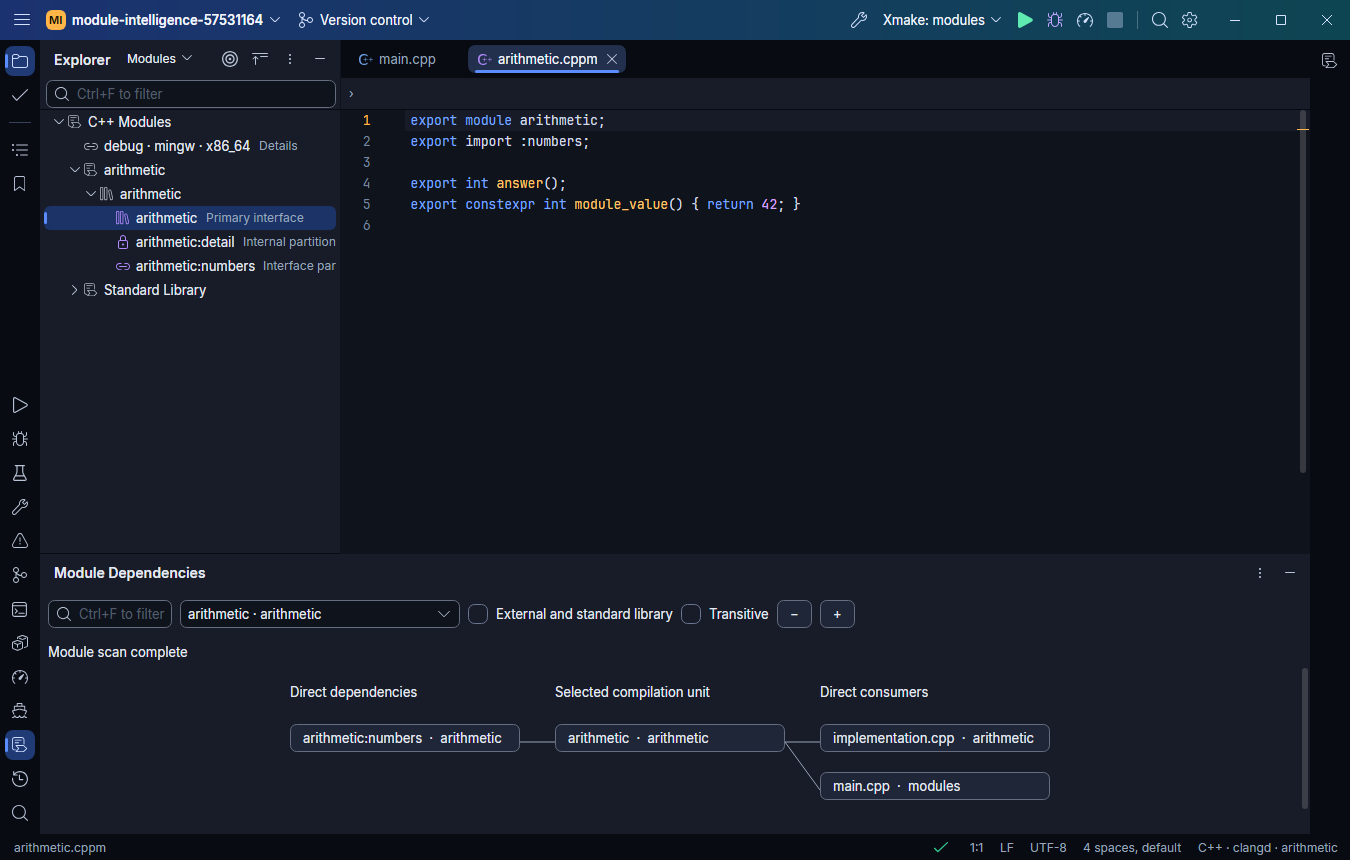
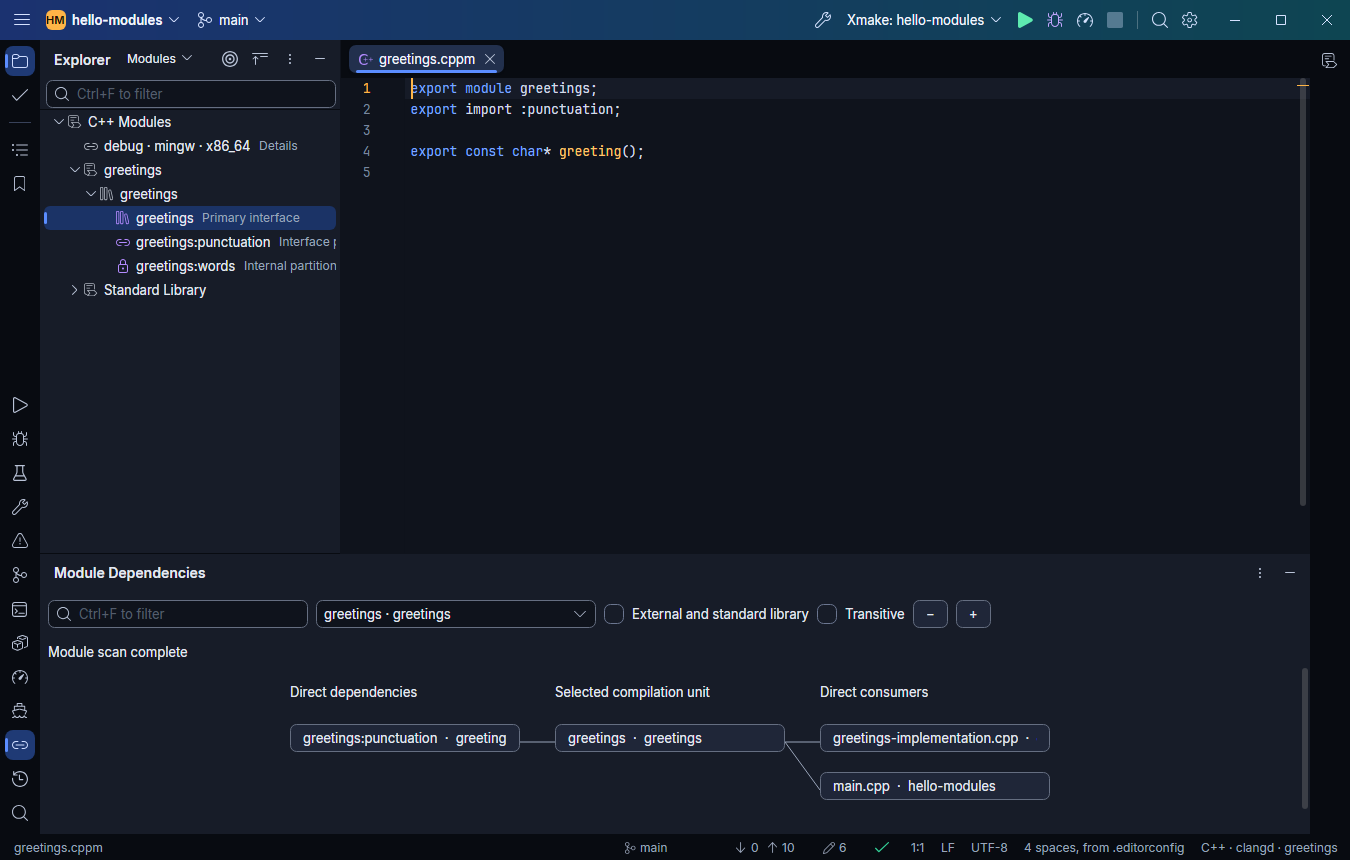
Integrate Module Dependencies with the shared tool window actions

diff --git a/tests/Passenger.Tests/ToolWindowServesTests.cs b/tests/Passenger.Tests/ToolWindowServesTests.cs
@@ -34,6 +34,7 @@ public sealed class ToolWindowServesTests
         [ToolWindowIds.Containers] = ToolWindowServes.EveryFolder,
         [ToolWindowIds.Profiler] = ToolWindowServes.EveryFolder,
         [ToolWindowIds.Hierarchy] = ToolWindowServes.EveryFolder,
+        [ToolWindowIds.ModuleGraph] = ToolWindowServes.XmakeProjects,
         [ToolWindowIds.Endpoints] = ToolWindowServes.WebRequests,
         [ToolWindowIds.Requests] = ToolWindowServes.WebApps,
         [ToolWindowIds.LiveTree] = ToolWindowServes.InspectedApps,
@@ -47,6 +48,7 @@ public sealed class ToolWindowServesTests
     private static readonly (string Id, string Why)[] OfAKind =
     [
         (ToolWindowIds.Game, Refusals.NoGodotProject),
+        (ToolWindowIds.ModuleGraph, Refusals.NoXmakeProject),
         (ToolWindowIds.Aspire, Refusals.NoAppHost),
         (ToolWindowIds.StepLibrary, Refusals.NoStepDefinitions),
         (ToolWindowIds.Endpoints, Refusals.NoWebRequests),
@@ -104,12 +106,13 @@ public sealed class ToolWindowServesTests
             DockHost dock = window.DockHost;
             Ui.WaitFor(() => window.Projects is [{ IsEvaluated: true }], () => $"the console project evaluated, where {string.Join(", ", window.Projects.Select(p => $"{p.Name} {p.Problem}"))}");
             // A layout opening one in each of their places (a theme's, or one kept from a folder that had them) shows none.
-            string[] opened = [ToolWindowIds.Game, ToolWindowIds.Aspire, ToolWindowIds.Requests];
+            string[] opened = [ToolWindowIds.Game, ToolWindowIds.Aspire, ToolWindowIds.Requests, ToolWindowIds.ModuleGraph];
             DockLayout opening = dock.Capture();
             foreach (string id in opened)
             {
                 opening.Windows[id] = opening.Windows[id] with { Shown = true };
             }
+            opening.Windows[ToolWindowIds.ModuleGraph] = opening.Windows[ToolWindowIds.ModuleGraph] with { Mode = ToolMode.Editor };
             dock.Apply(opening);
             Ui.Settle();
             NativeMenu tools = Ui.Submenu(Ui.Submenu(window.MenuBar, "View"), MainMenu.ToolWindows);

diff --git a/src/Passenger.App/MainWindow.Modules.cs b/src/Passenger.App/MainWindow.Modules.cs
@@ -13,21 +13,24 @@ public partial class MainWindow
 
     private void AddModules()
     {
-        Dock.Add(new Docking.ToolWindow(ToolWindowIds.ModuleGraph, "Module Dependencies", IconKeys.Hierarchy, () =>
+        Dock.Add(new Docking.ToolWindow(ToolWindowIds.ModuleGraph, "Module Dependencies", IconKeys.Reference, () =>
         {
             ModuleGraphView graph = new();
             graph.GoTo += (_, path) => NavigateTo(path, default(TextPosition));
             moduleGraph = graph;
             FollowModuleGraph();
             return graph;
-        }, Docking.ToolAnchor.BottomLeft) { Serves = ToolWindowServes.XmakeProjects });
+        }, Docking.ToolAnchor.BottomLeft)
+        {
+            Serves = ToolWindowServes.XmakeProjects,
+            Action = AppActions.ModuleGraph,
+            Activate = () => ShowModuleGraph(),
+            ActionRefusal = NeedsModuleWorkspace,
+            Menus = [new MenuPlace("View", 1, 4)],
+        });
         actions!.Add(new IdeAction(AppActions.ShowModules, "Show Modules in Explorer", "Explorer", _ => ShowModules())
         {
             WhyNot = _ => NeedsModuleWorkspace(), Menus = [new MenuPlace("View", 1, 3)],
-        });
-        actions.Add(new IdeAction(AppActions.ModuleGraph, "Module Dependencies", "C++ Modules", _ => ShowModuleGraph())
-        {
-            WhyNot = _ => NeedsModuleWorkspace(), Menus = [new MenuPlace("View", 1, 4)],
         });
         actions.Add(new IdeAction(AppActions.GoToModule, "Go to Module", "C++ Modules", _ =>
         {
@@ -46,7 +49,7 @@ public partial class MainWindow
         string? MissingProvider() => ModuleAtCaret() is null ? "Place the caret on a module with a confirmed provider." : null;
     }
 
-    private string? NeedsModuleWorkspace() => session.Xmake is not { IsXmake: true } ? "Open an Xmake workspace."
+    private string? NeedsModuleWorkspace() => session.Xmake is not { IsXmake: true } ? Refusals.NoXmakeProject
         : !session.Trusted ? Refusals.Untrusted : null;
 
     public void ShowModules(string? source = null)

diff --git a/src/Passenger.App/Docking/ToolWindow.cs b/src/Passenger.App/Docking/ToolWindow.cs
@@ -166,6 +166,8 @@ public sealed class ToolWindow([IdentifierOf(typeof(ToolWindowIds))] string id, 
     /// it again from inside.</summary>
     public Action? Activate { get; init; }
 
+    public Func<string?>? ActionRefusal { get; init; }
+
     /// <summary>Whether a show the person asks for (its stripe's button, its tab, a move) gives it the keys as its action
     /// does: the terminal's, shown to be typed into. A layout showing it, or an attached agent's call, never does.</summary>
     public bool TakesKeysAsShown { get; init; }
@@ -211,7 +213,7 @@ public sealed class ToolWindow([IdentifierOf(typeof(ToolWindowIds))] string id, 
         {
             Menus = Menus,
             FromTerminal = true,
-            WhyNot = _ => Unserved,
+            WhyNot = _ => Unserved ?? ActionRefusal?.Invoke(),
         }
         : null;
 

diff --git a/src/Passenger.App/ToolWindowServes.cs b/src/Passenger.App/ToolWindowServes.cs
@@ -54,7 +54,7 @@ public sealed class ToolWindowServes
     /// <summary>Every folder: the Explorer, Find, the Terminal, Problems, Git and the like.</summary>
     public static ToolWindowServes EveryFolder { get; } = new(FolderHolds.None, null);
 
-    public static ToolWindowServes XmakeProjects { get; } = new(FolderHolds.XmakeProject, "Open an Xmake workspace.");
+    public static ToolWindowServes XmakeProjects { get; } = new(FolderHolds.XmakeProject, Refusals.NoXmakeProject);
 
     /// <summary>A Godot project, whose game the Game window draws.</summary>
     public static ToolWindowServes GodotProjects { get; } = new(FolderHolds.GodotProject, Refusals.NoGodotProject);

diff --git a/src/Passenger.App/Refusals.cs b/src/Passenger.App/Refusals.cs
@@ -403,6 +403,8 @@ public static class Refusals
     /// <summary>An action on a Godot project asked for in a folder that holds none.</summary>
     public const string NoGodotProject = "The open folder holds no Godot project (project.godot)";
 
+    public const string NoXmakeProject = "Open an Xmake workspace.";
+
     /// <summary>The Aspire window, in a folder holding no AppHost: no project Aspire's SDK makes one, no single-file AppHost.</summary>
     public const string NoAppHost = "The open folder holds no Aspire AppHost";
 
